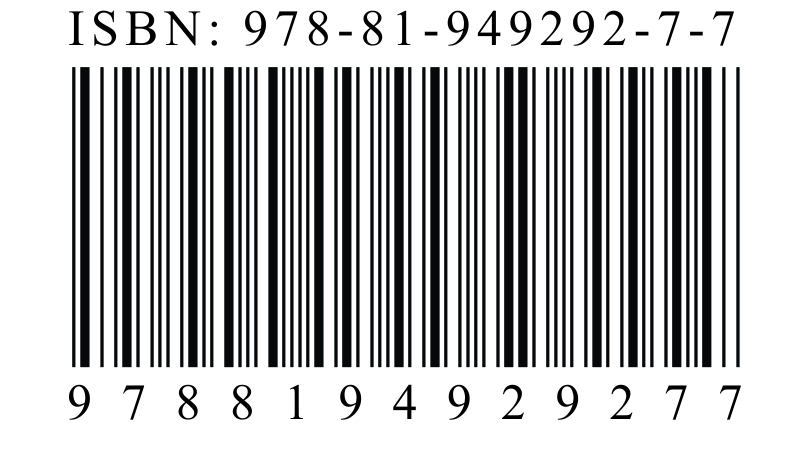
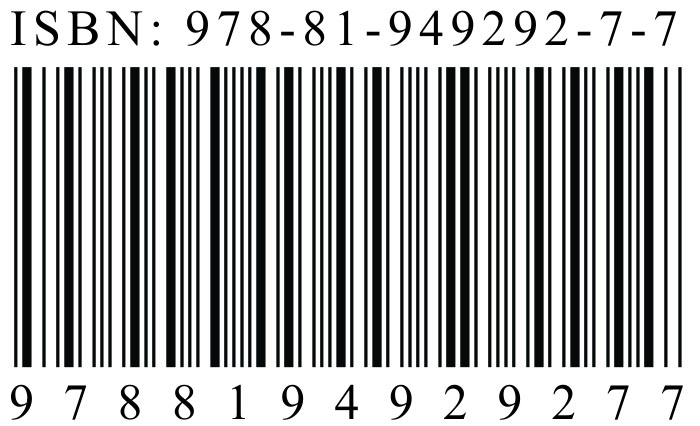
Bar Code Commit

diff --git a/index.html b/index.html
@@ -158,9 +158,9 @@ a:active {
   <center>
   <table border="0" cellspacing="1" style="border-collapse: collapse; padding-left: 10; padding-right: 10" bordercolor="#111111" width="1060">
     <tr>
-      <td width="50%" align="left" style="padding-left: 15"><img src="images/Bar codes.jpg" width="149" height="57" hspace="0" vspace="0" align="left"></td>
+      <td width="50%" align="left" style="padding-left: 15"><img src="images/Bar codes.jpg" width="165" height="75" hspace="0" vspace="0" align="left"></td>
       <td width="50%" align="right" style="padding-right: 15">
-      <img border="0" src="images/eps.jpg" align="right" hspace="0" width="347" height="57"></td>
+      <img border="0" src="images/eps.jpg" align="right" hspace="0" width="347" height="70"></td>
     </tr>
   </table>
   </center>
